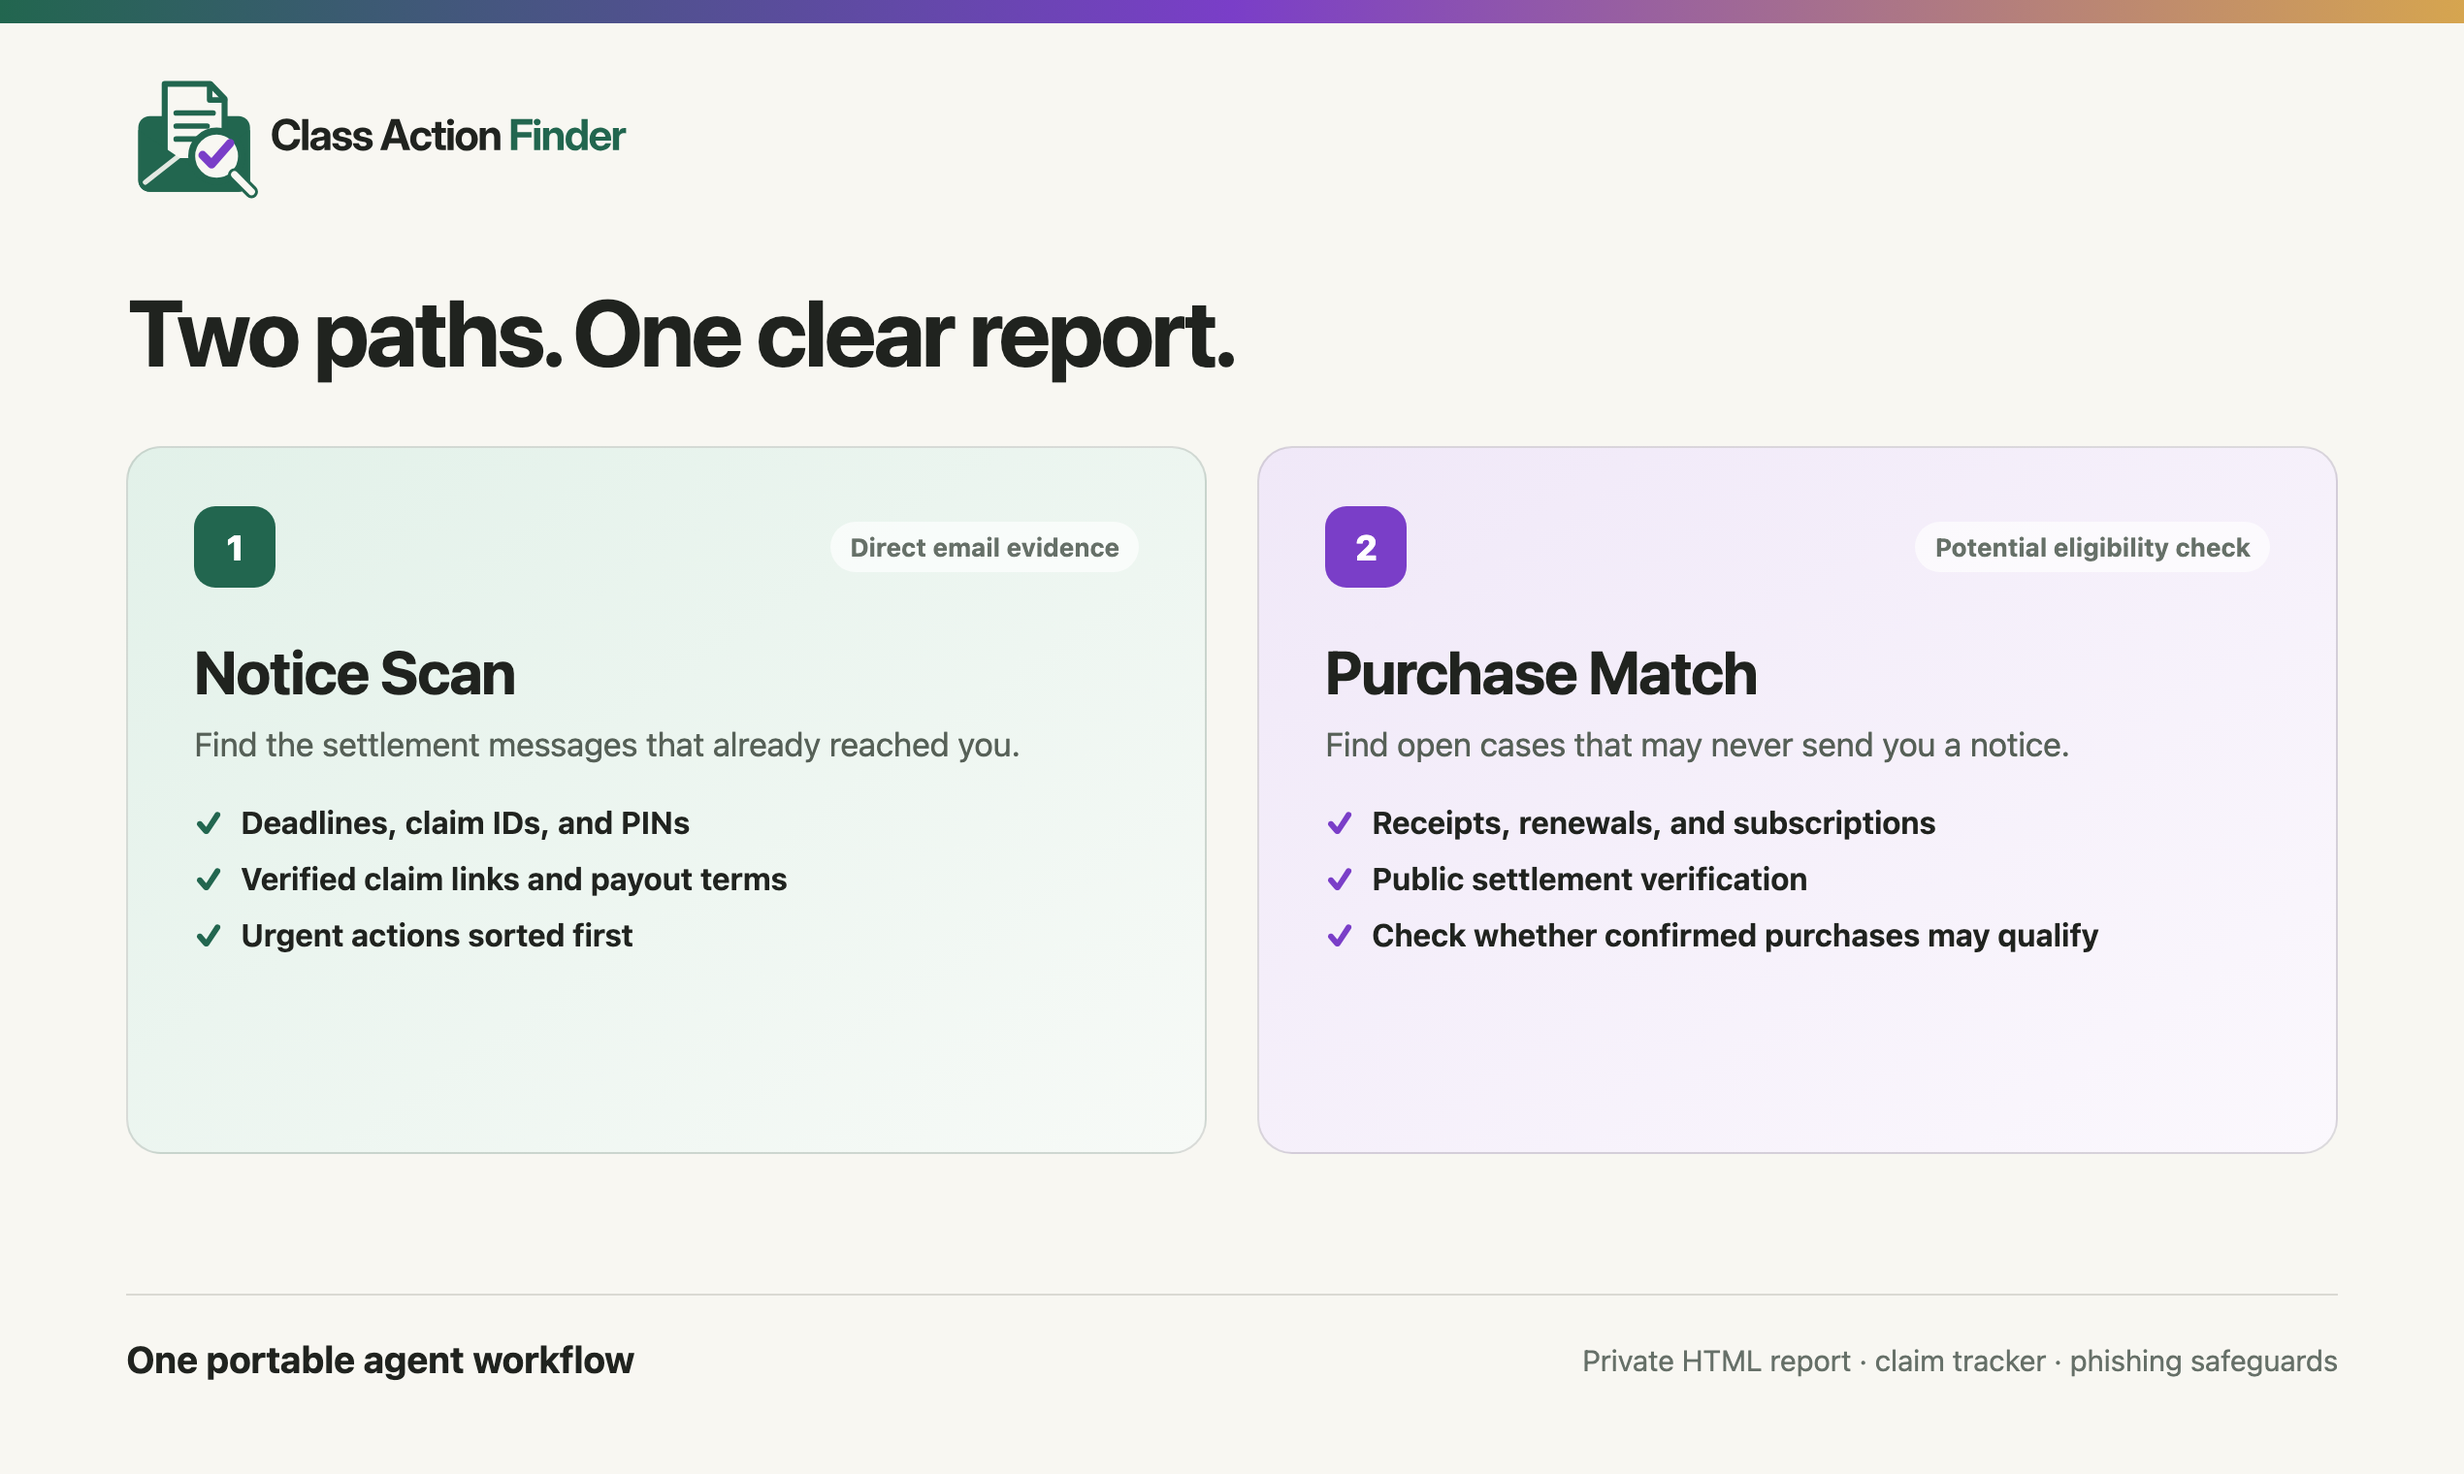
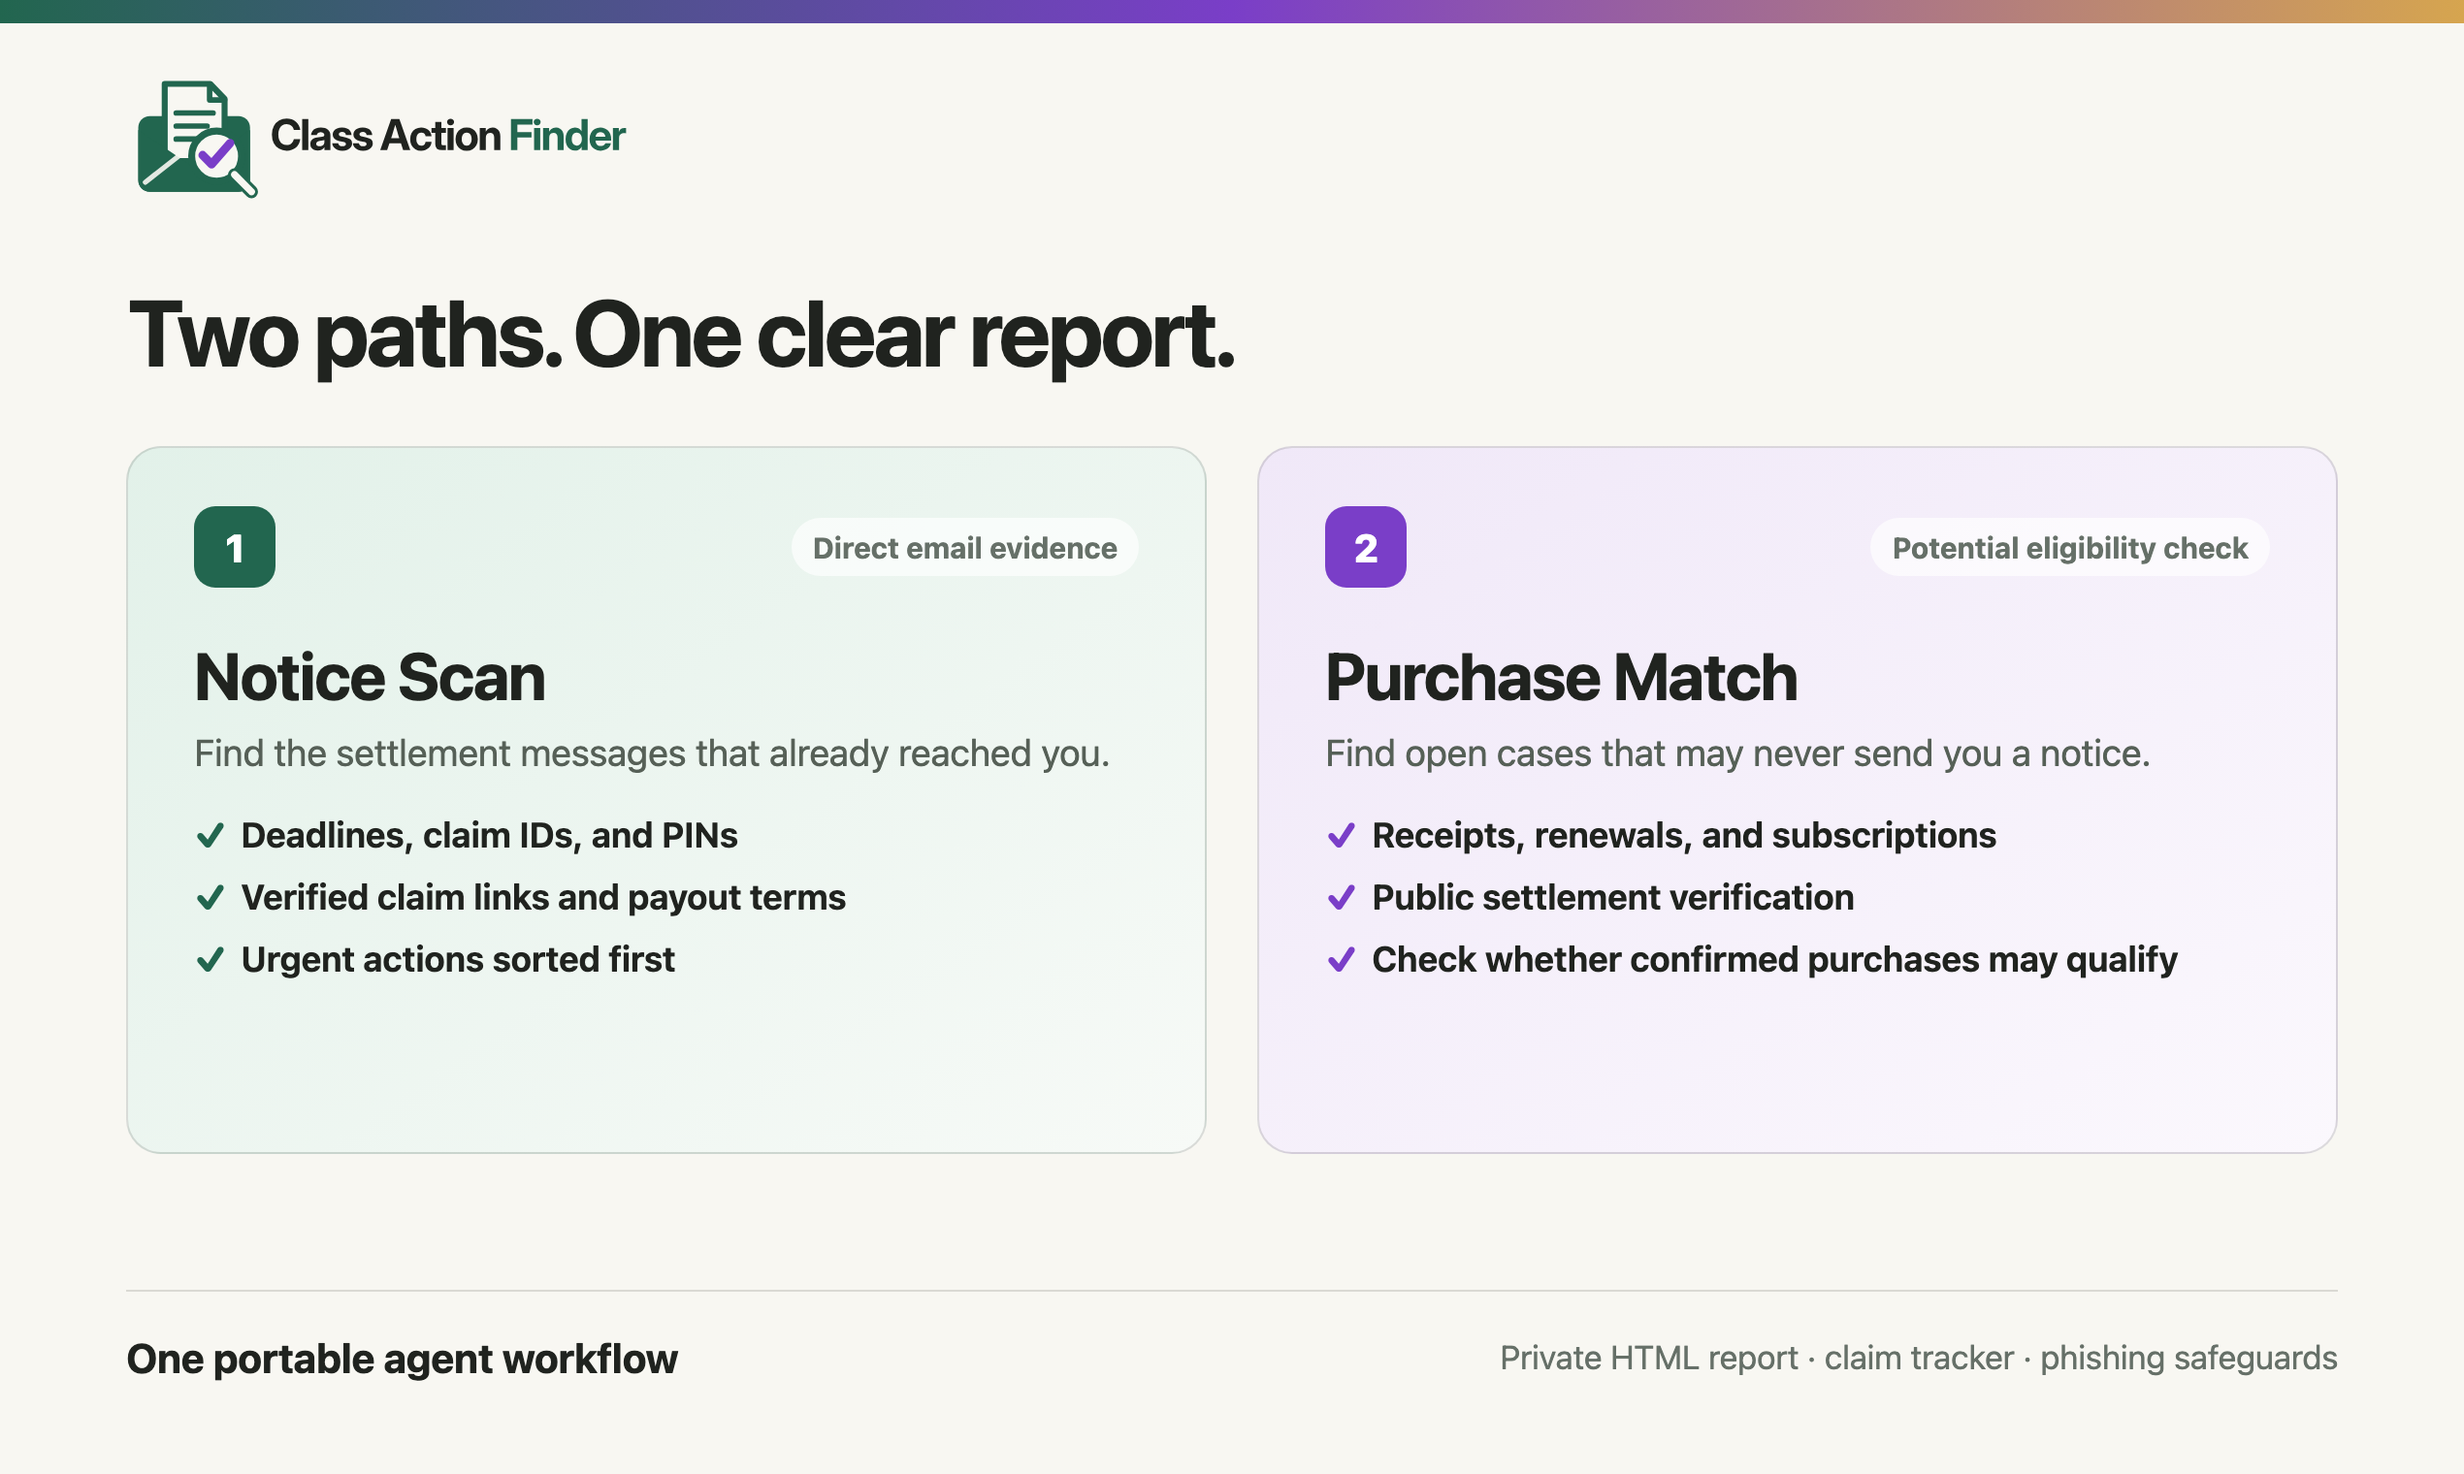
Improve Product Hunt gallery legibility

diff --git a/docs/product-hunt/gallery-source.html b/docs/product-hunt/gallery-source.html
@@ -32,7 +32,7 @@
   .brand img { display: block; width: 390px; height: auto; }
   .eyebrow {
     color: var(--green);
-    font-size: 15px;
+    font-size: 17px;
     font-weight: 800;
     letter-spacing: .12em;
     text-transform: uppercase;
@@ -53,27 +53,27 @@
     margin: 0;
     max-width: 410px;
     color: #505851;
-    font-size: 21px;
+    font-size: 23px;
     line-height: 1.45;
   }
   .platforms {
     display: inline-flex;
     gap: 9px;
     margin-top: 29px;
-    padding: 9px 13px;
+    padding: 10px 15px;
     border: 1px solid rgba(32, 35, 31, .14);
     border-radius: 999px;
     background: rgba(255, 255, 255, .5);
     color: var(--green-dark);
-    font-size: 14px;
+    font-size: 16px;
     font-weight: 750;
   }
   .report-frame {
     position: absolute;
-    top: 174px;
-    right: 38px;
-    width: 690px;
-    height: 443px;
+    top: 164px;
+    right: 24px;
+    width: 720px;
+    height: 462px;
     overflow: hidden;
     border: 1px solid rgba(32, 35, 31, .12);
     border-radius: 18px;
@@ -81,13 +81,13 @@
     box-shadow: 0 28px 70px rgba(32, 35, 31, .18);
     transform: rotate(-1.2deg);
   }
-  .report-frame img { display: block; width: 690px; height: auto; }
+  .report-frame img { display: block; width: 720px; height: auto; }
   .privacy-note {
     position: absolute;
-    right: 61px;
+    right: 45px;
     bottom: 44px;
     color: #4e5850;
-    font-size: 15px;
+    font-size: 17px;
     font-weight: 750;
   }
 
@@ -128,26 +128,26 @@
     border-radius: 11px;
     background: var(--green);
     color: #fff;
-    font-size: 18px;
+    font-size: 20px;
     font-weight: 800;
   }
   .purchase .path-number { background: var(--purple); }
   .path-source {
-    padding: 5px 10px;
+    padding: 6px 11px;
     border-radius: 999px;
     background: rgba(255,255,255,.65);
     color: var(--muted);
-    font-size: 13px;
+    font-size: 15px;
     font-weight: 700;
   }
-  .path h2 { margin: 25px 0 9px; font-size: 31px; letter-spacing: -.025em; }
-  .path > p { margin: 0 0 21px; color: #566057; font-size: 17px; }
+  .path h2 { margin: 25px 0 9px; font-size: 34px; letter-spacing: -.025em; }
+  .path > p { margin: 0 0 21px; color: #566057; font-size: 19px; }
   .path ul { margin: 0; padding: 0; list-style: none; }
   .path li {
     position: relative;
     margin: 11px 0;
     padding-left: 24px;
-    font-size: 16px;
+    font-size: 18px;
     font-weight: 650;
   }
   .path li::before {
@@ -169,37 +169,37 @@
     padding-top: 22px;
     border-top: 1px solid var(--line);
   }
-  .g2-footer strong { font-size: 19px; }
-  .g2-footer span { color: var(--muted); font-size: 15px; }
+  .g2-footer strong { font-size: 21px; }
+  .g2-footer span { color: var(--muted); font-size: 17px; }
 
   #gallery-three { background: #e9ece7; }
   .flat-report {
     position: absolute;
     top: 60px;
-    left: 110px;
-    width: 1050px;
+    left: 85px;
+    width: 1100px;
     height: 687px;
     overflow: hidden;
     border: 1px solid rgba(32, 35, 31, .18);
     border-radius: 12px;
     background: #fff;
   }
-  .flat-report img { display: block; width: 1050px; height: auto; }
+  .flat-report img { display: block; width: 1100px; height: auto; }
   .g3-title {
     position: absolute;
     top: 18px;
-    left: 110px;
+    left: 85px;
     margin: 0;
-    font-size: 24px;
+    font-size: 26px;
     letter-spacing: -.02em;
   }
   .g3-label {
     position: absolute;
     top: 23px;
-    right: 110px;
+    right: 85px;
     z-index: 2;
     color: #4e5850;
-    font-size: 13px;
+    font-size: 15px;
     font-weight: 750;
   }
 </style>
